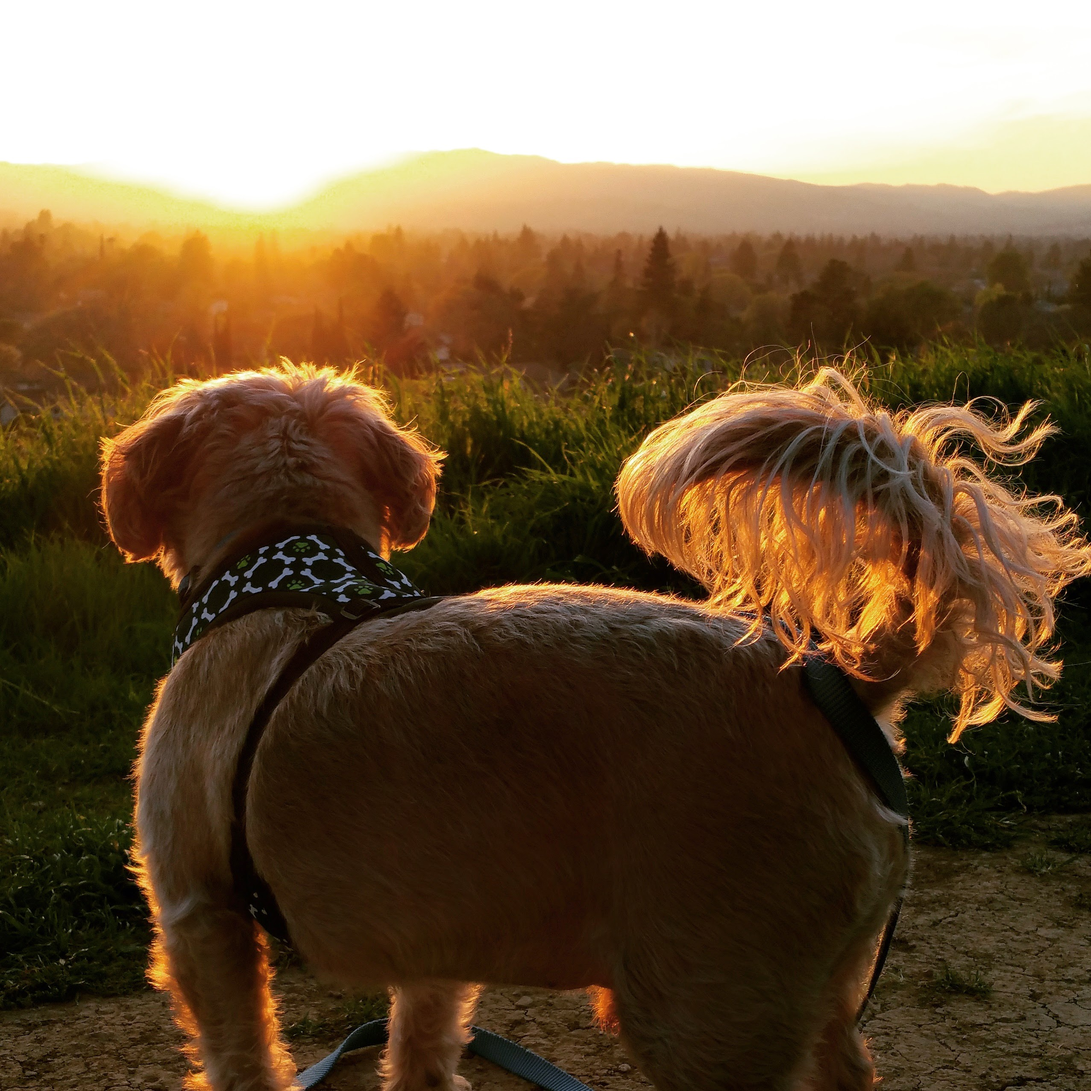
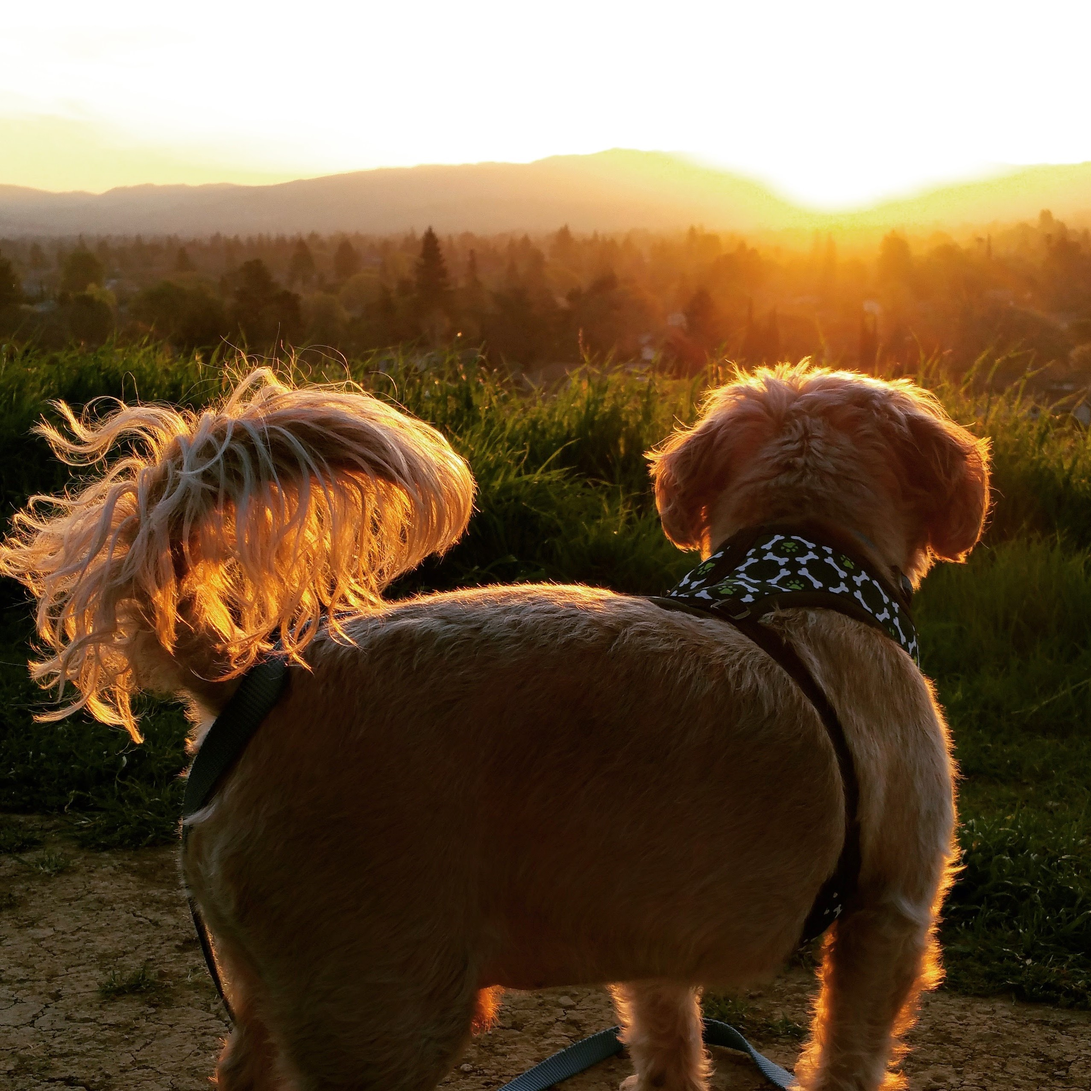
Flipped hero image, updated URL to ernst.dev domain.

diff --git a/public/assets/customutility.css b/public/assets/customutility.css
@@ -55,7 +55,7 @@
 }
 
 .hero-parallax::after {
-  background-image: url("https://tay.fail/pets/img/rocky-orig.jpg");
+  background-image: url("https://ernst.dev/pets/img/rocky-orig.jpg");
   background-repeat: no-repeat; /* Do not repeat the image */
   background-size: cover;
   background-position: 30% top;
